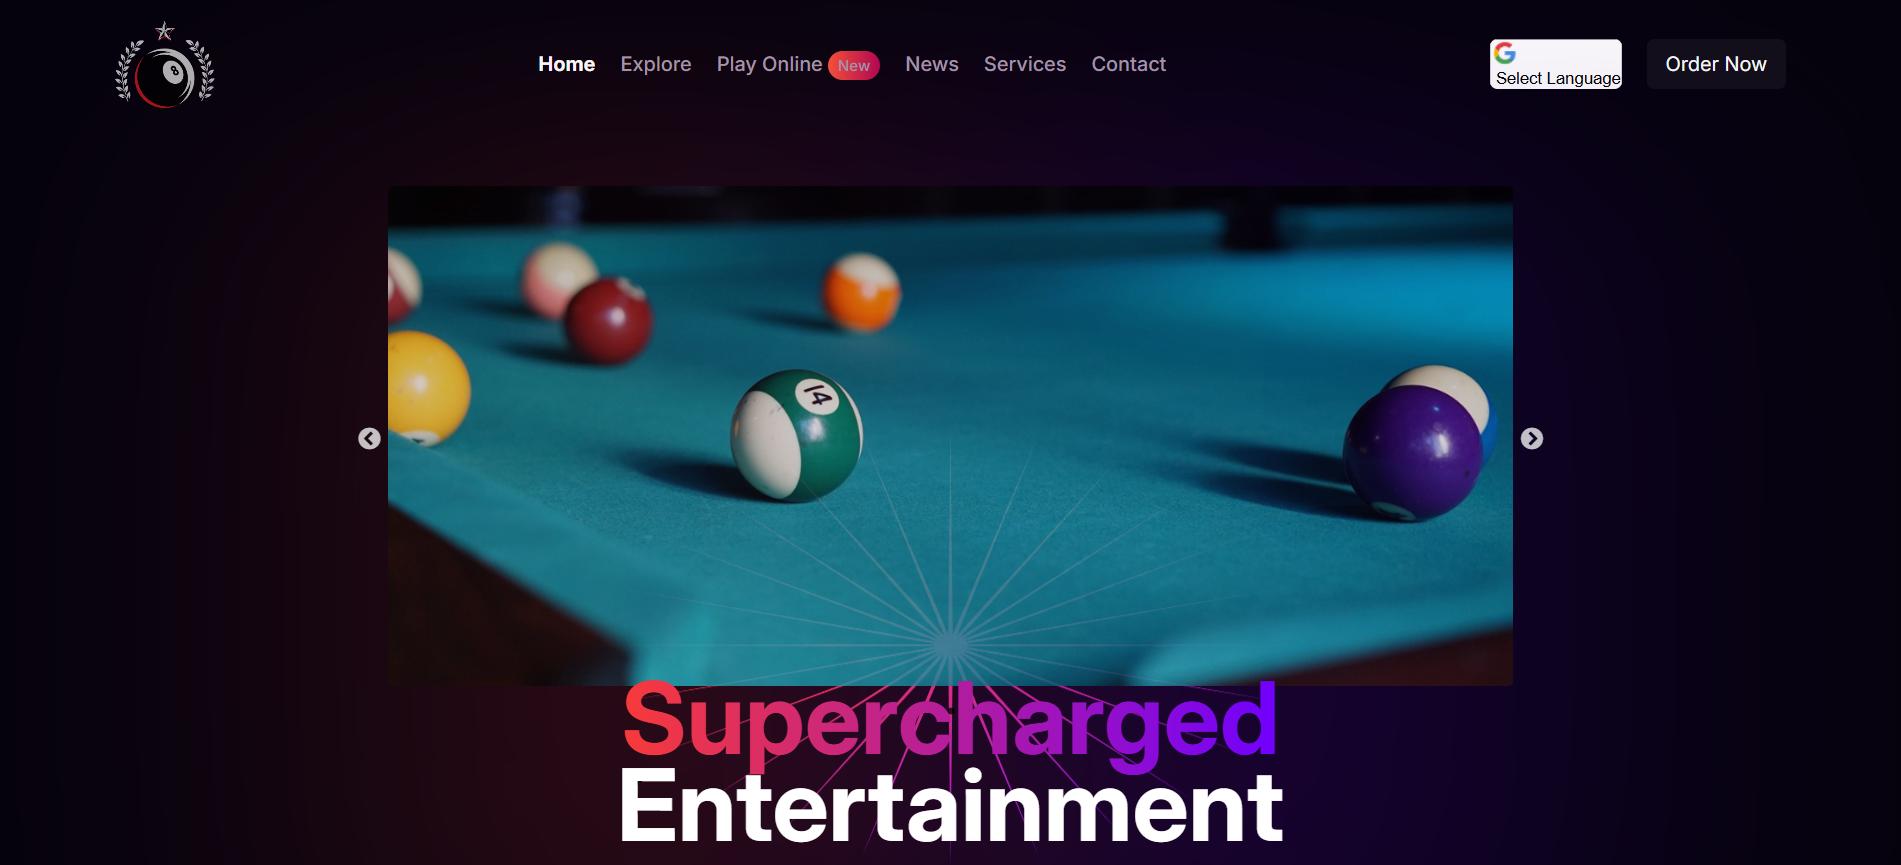
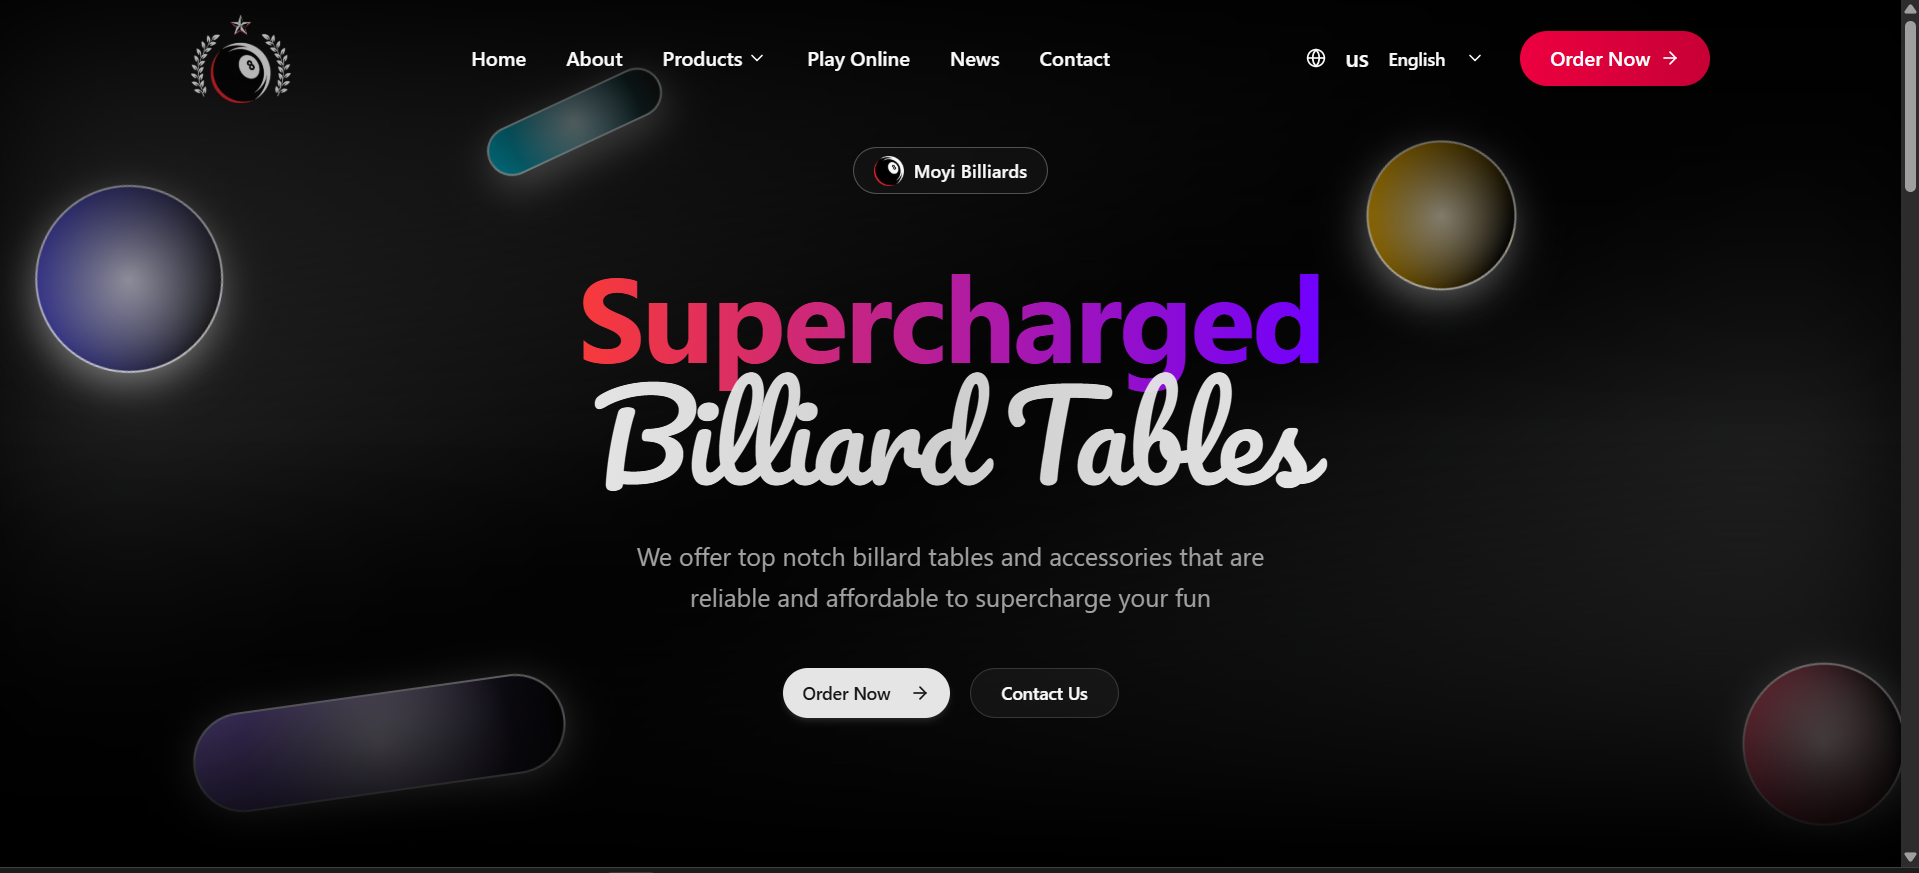
updated moyibilliards

diff --git a/src/data/resume.tsx b/src/data/resume.tsx
@@ -110,21 +110,28 @@ export const DATA = {
     },
     {
       title: "Moyi Billiards",
-      href: "https://thegreatmoyibilliards.netlify.app/",
+      href: "https://moyibilliards.vercel.app/",
       dates: "2024 - 2025",
       active: true,
       description:
         "Platform to connect hospitals and health centers across Rwanda. Handles patient records and referral transfers with map integration (Mapbox).",
-      technologies: ["React", "Appwrite", "Tailwind", "Framer-motion"],
+      technologies: [
+        "NextJs",
+        "Prisma",
+        "Tailwind",
+        "Shadcn",
+        "PostgreSQL",
+        "neon",
+      ],
       links: [
         {
           type: "Preview",
-          href: "https://thegreatmoyibilliards.netlify.app/",
+          href: "https://moyibilliards.vercel.app/",
           icon: <Icons.globe className="size-3" />,
         },
         {
           type: "Repository",
-          href: "https://github.com/ndizeyedavid/GREAT-MOYI-BILLIARDS/",
+          href: "https://github.com/ndizeyedavid/moyi-billiards/",
           icon: <Icons.github className="size-3" />,
         },
       ],
